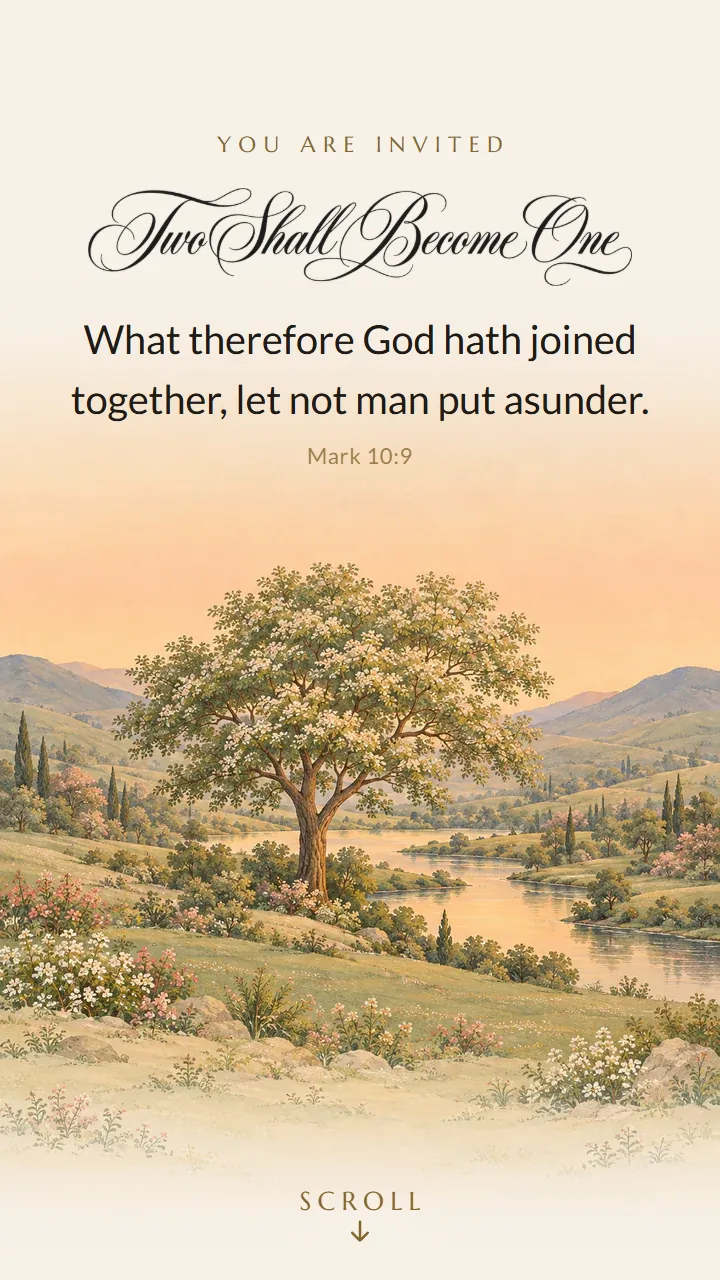
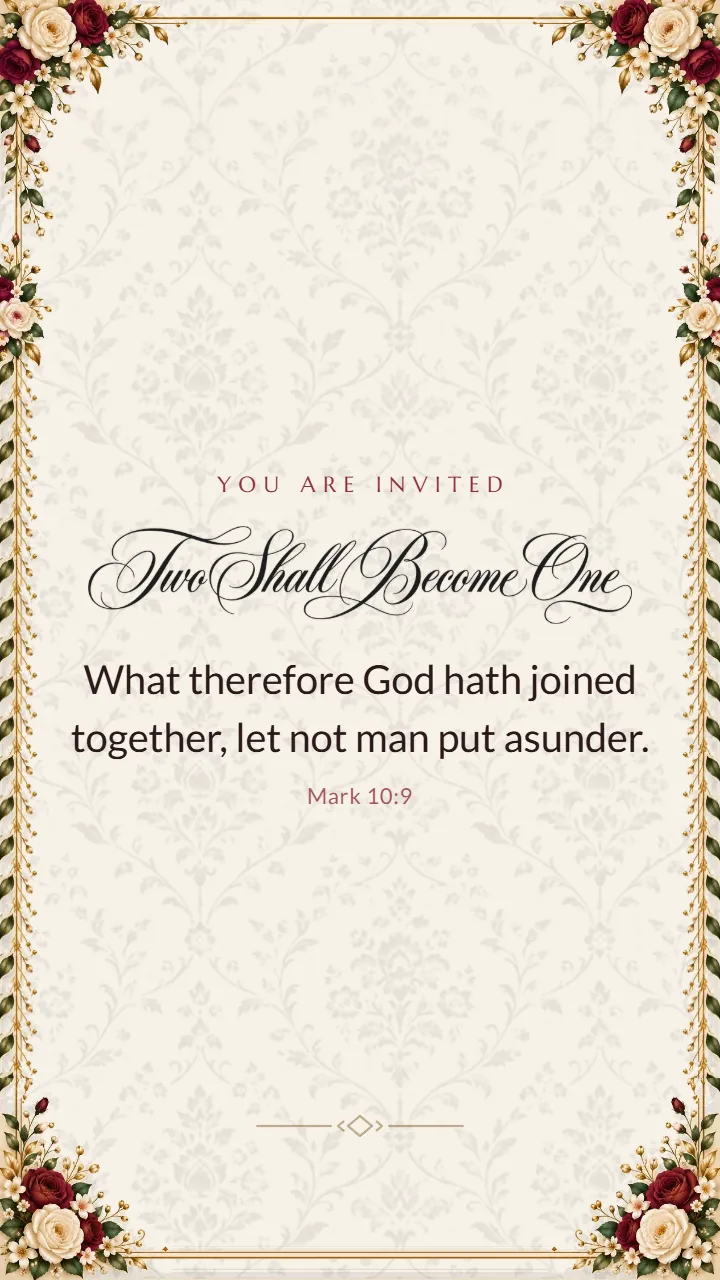
style(traditions): new look for Ivory Chapel
Cream and ivory roses on a gold double rule round the card (flowerPearl; it had no frame), on an ivory ground woven with the damask. No painting any more: the valley goes to Gurdwara Ivory and Bodhi Ivory, each in its own tone. White lilies in the corners and "Two shall become one" as before, now in near-black and deep rose inks with the gold accent. Mogra petals fall steadily and dandelion seeds drift; mogra garlands part the sections. The cover is the floral gatefold with its satin bow (ribbon-seal) instead of the plain gatefold. Still no emblem chosen for the family.

Gallery preview remade. Saved cards keep the look they were saved with.

diff --git a/templates/ivory-chapel/config.ts b/templates/ivory-chapel/config.ts
@@ -10,39 +10,44 @@ import type { TemplateConfig } from "@/templates/types";
  * preset's own terms, and put on the card by the same builder as the other
  * Traditions templates. Everything on it is art the card already had:
  *
- *   an ivory ground with no frame round it, so nothing on it is red;
+ *   cream and ivory roses on a gold double rule round the card (the pearl
+ *   frame), on an ivory ground woven with the damask;
+ *   no painting: the ground and the roses are the first screen, and the
+ *   valley it had is another card's now;
  *   white lilies in the corners, from the Christian pack, its soft floral;
- *   the valley and its tree for the first screen, in place of the palace
- *   garden, whose pavilion belongs to another kind of wedding;
  *   "Two shall become one" in the pack's copperplate hand at the head;
- *   white mogra petals as the card opens, and nothing flying.
+ *   white mogra petals falling, and dandelion seeds drifting.
  *
  * NO SYMBOL. The pack has a cross, a dove, bells, a chalice and rings; none
- * is switched on. Lilies and a line of scripture say a church wedding without
- * choosing a denomination's emblem for a family, and a host who wants one can
- * still add it in the full editor. The greeting and the blessing are the
- * pack's own, added only where the card has none.
+ * is switched on. Lilies, white roses and a line of scripture say a church
+ * wedding without choosing a denomination's emblem for a family, and a host
+ * who wants one can still add it in the full editor. The greeting and the
+ * blessing are the pack's own, added only where the card has none.
  */
 const IVORY_CHAPEL_LOOK: Preset = {
   id: "ivory-chapel",
   name: "Ivory Chapel",
-  description: "Ivory, white and gold, with lilies and a line of scripture.",
+  description: "Ivory roses on damask, white lilies and a line of scripture.",
   tradition: "christian",
   settings: {
     paletteId: "cream",
-    textPairId: "champagneClassic",
+    /* Near-black and a deep rose for the two inks. */
+    textPairId: "ivoryRose",
     /* The Champagne Classic pair's own gold, which reads on a pale ground. */
     accentOverride: "#86672E",
     fontPairId: "graceful",
     density: "comfortable",
-    borderStyle: "none",
+    borderStyle: "flowerPearl",
     decorMotion: "float",
     decorIntensity: "subtle",
     butterflies: "none",
-    leaves: false,
-    petals: "open",
+    leaves: true,
+    nature: "dandelion",
+    petals: "fall",
     petalFlower: "mogra",
-    coverAnimation: "fold-unfold",
+    royalTexture: true,
+    /* The floral gatefold with its satin bow and white roses. */
+    coverAnimation: "ribbon-seal",
     ornaments: ["lilyCorner"],
     calligraphy: "twoBecomeOne",
     greetingIfNone: "graceAndPeace",
@@ -56,5 +61,6 @@ export const IVORY_CHAPEL: TemplateConfig = presetTemplate({
   ownPaletteLabel: "Ivory",
   palettes: [plain("blush", "blush"), plain("sand", "sand")],
   fontPairs: ["elegant", "classic"],
-  scene: "valleyTree",
+  scene: "off",
+  divider: "mogra",
 });
